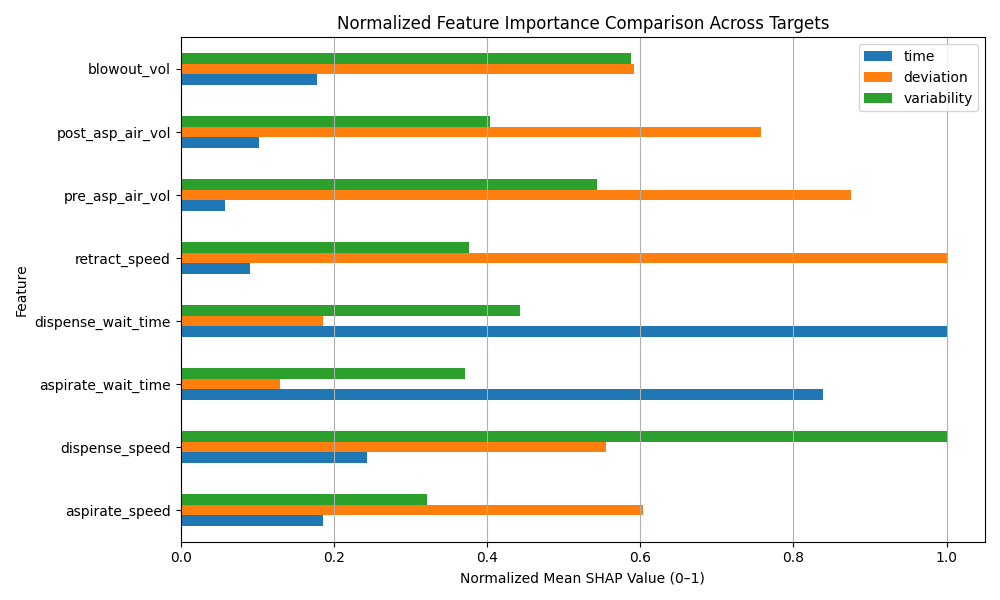
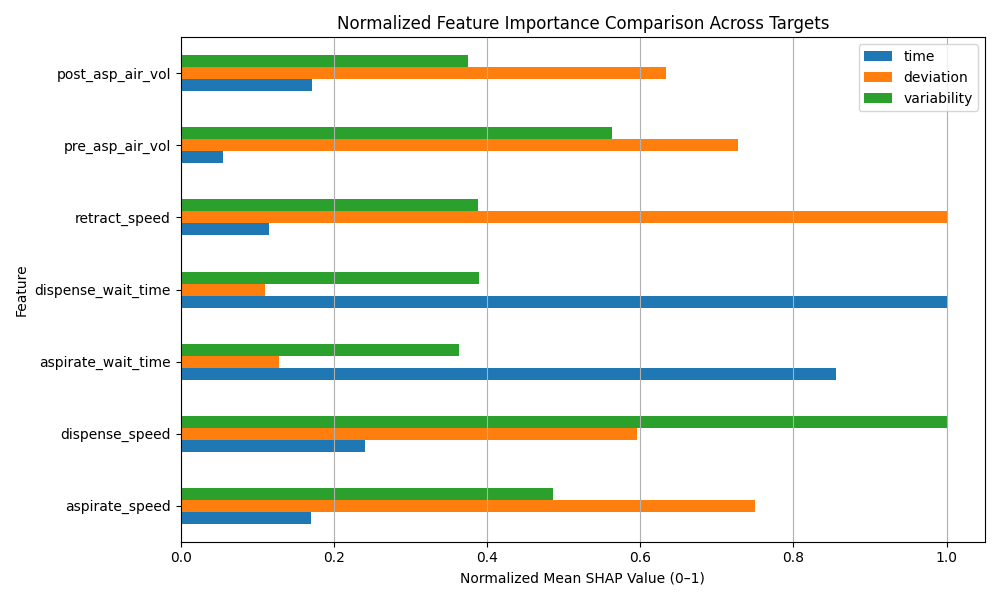
asd

Changed region(s): [[0.031, 0.18, 0.961, 0.78], [0.062, 0.81, 0.775, 0.9], [0.062, 0.09, 0.682, 0.15]]

diff --git a/analysis/calibration_analyzer.py b/analysis/calibration_analyzer.py
@@ -9,7 +9,7 @@ import seaborn as sns
 
 input_cols = [
     'aspirate_speed', 'dispense_speed', 'aspirate_wait_time', 'dispense_wait_time',
-    'retract_speed', 'pre_asp_air_vol', 'post_asp_air_vol', 'blowout_vol'
+    'retract_speed', 'pre_asp_air_vol', 'post_asp_air_vol', 
 ]
 
 output_targets = ['time', 'deviation', 'variability']
@@ -83,3 +83,132 @@ def plot_top_trial_histograms(best_trials, save_folder):
         plt.tight_layout()
         plt.savefig(os.path.join(save_folder, f'top_trials_histogram_{param}.png'))
         plt.clf()
+
+def plot_time_vs_deviation(results_df, save_folder):
+    """Scatter plot of Time vs. Deviation with variability > 1 marked and volumes color-coded."""
+    plt.figure(figsize=(10, 6))
+    
+    for vol in sorted(results_df['volume'].unique()):
+        df_sub = results_df[results_df['volume'] == vol]
+        label = f"{vol} mL"
+
+        # Normal points
+        plt.scatter(
+            df_sub["time"],
+            df_sub["deviation"],
+            label=label,
+            alpha=0.7,
+            edgecolors="k"
+        )
+
+        # X markers for variability > 1.0
+        high_var = df_sub[df_sub["variability"] > 1.0]
+        plt.scatter(
+            high_var["time"],
+            high_var["deviation"],
+            marker="x",
+            color="black",
+            s=100,
+            label=None
+        )
+
+    plt.xlabel("Time (seconds)")
+    plt.ylabel("Deviation From Target (%)")
+    plt.title("Time vs Deviation with High-Variability Markers")
+    plt.legend(title="Volume")
+    plt.grid(True)
+    plt.tight_layout()
+
+    save_path = os.path.join(save_folder, "time_vs_deviation_scatter.png")
+    plt.savefig(save_path)
+    plt.clf()
+    print("Saved time vs deviation plot to:", save_path)
+
+def plot_boxplots(df, save_folder):
+    for target in ['deviation', 'variability', 'time']:
+        if target in df.columns:
+            plt.figure(figsize=(10, 6))
+            sns.boxplot(data=df, x='volume', y=target)
+            plt.title(f'{target.capitalize()} by Volume')
+            plt.tight_layout()
+            plt.savefig(os.path.join(save_folder, f'boxplot_{target}_by_volume.png'), dpi=300)
+            plt.close()
+
+def plot_pairplot(df, save_folder):
+    key_params = ['deviation', 'time', 'variability', 'aspirate_speed', 'dispense_speed']
+    available = [p for p in key_params if p in df.columns]
+    if len(available) >= 3:
+        sns.pairplot(df[available])
+        plt.savefig(os.path.join(save_folder, 'parameter_pairplot.png'), dpi=300)
+        plt.close()
+
+def plot_learning_curves(df, save_folder):
+    df = df.copy()
+    df['trial_index'] = pd.to_numeric(df['trial_index'], errors='coerce')
+    df = df.dropna(subset=['trial_index']).sort_values(['volume', 'trial_index'])
+
+    metrics = ['deviation', 'time', 'variability']
+    for metric in metrics:
+        if metric not in df.columns:
+            continue
+        volumes = sorted(df['volume'].unique())
+        plt.figure(figsize=(14, 5 * len(volumes)))
+        for i, vol in enumerate(volumes):
+            ax = plt.subplot(len(volumes), 1, i+1)
+            vol_df = df[df['volume'] == vol].sort_values('trial_index')
+            ax.scatter(vol_df['trial_index'], vol_df[metric], alpha=0.6, s=40)
+            if len(vol_df) >= 3:
+                ma = vol_df[metric].rolling(window=3, center=True).mean()
+                ax.plot(vol_df['trial_index'], ma, label='Moving Average', color='orange')
+                z = np.polyfit(vol_df['trial_index'], vol_df[metric], 1)
+                ax.plot(vol_df['trial_index'], np.poly1d(z)(vol_df['trial_index']), 'r--', label='Trend')
+            ax.set_title(f'{metric.capitalize()} Learning Curve - {vol} mL')
+            ax.set_xlabel('Trial Index')
+            ax.set_ylabel(metric.capitalize())
+            ax.legend()
+            ax.grid(True)
+        plt.tight_layout()
+        plt.savefig(os.path.join(save_folder, f'learning_curves_{metric}.png'), dpi=300)
+        plt.close()
+
+def plot_improvement_summary(df, save_folder):
+    metrics = ['deviation', 'time', 'variability']
+    summary = []
+    for vol in sorted(df['volume'].unique()):
+        sub = df[df['volume'] == vol].sort_values('trial_index')
+        n = len(sub)
+        if n < 4:
+            continue
+        for metric in metrics:
+            if metric not in sub.columns:
+                continue
+            first = sub.iloc[:n//2][metric].mean()
+            second = sub.iloc[n//2:][metric].mean()
+            if first != 0:
+                improvement = (first - second) / first * 100
+            else:
+                improvement = 0
+            summary.append({
+                'volume': vol,
+                'metric': metric,
+                'first_half': first,
+                'second_half': second,
+                'improvement_pct': improvement
+            })
+    if summary:
+        df_summary = pd.DataFrame(summary)
+        df_summary.to_csv(os.path.join(save_folder, 'improvement_summary.csv'), index=False)
+
+        plt.figure(figsize=(12, 8))
+        for i, metric in enumerate(metrics):
+            plt.subplot(3, 1, i+1)
+            sub = df_summary[df_summary['metric'] == metric]
+            plt.bar(sub['volume'].astype(str), sub['improvement_pct'], color='teal')
+            plt.title(f'{metric.capitalize()} Improvement (% reduction)')
+            plt.ylabel('Improvement (%)')
+            plt.xlabel('Volume (mL)')
+            plt.grid(True)
+        plt.tight_layout()
+        plt.savefig(os.path.join(save_folder, 'improvement_summary.png'), dpi=300)
+        plt.close()
+

diff --git a/workflows/calibration_sdl.py b/workflows/calibration_sdl.py
@@ -1,8 +1,6 @@
 # calibration_sdl.py
 
 import sys
-
-from torch import fill
 sys.path.append("../utoronto_demo")
 import numpy as np
 import pandas as pd
@@ -11,8 +9,6 @@ from master_usdl_coordinator import Lash_E
 import time
 from ax.core.observation import ObservationFeatures
 import recommenders.pipeting_optimizer_honegumi as recommender  # adjust if needed
-import matplotlib.pyplot as plt
-import seaborn as sns
 import os
 import analysis.calibration_analyzer as analyzer  # adjust if needed
 
@@ -23,6 +19,7 @@ BAYES_CYCLES_PER_VOLUME = 120
 SIMULATE = False
 REPLICATES = 3
 VOLUMES = [0.01,0.02,0.05,0.1]
+LIQUID = "water" 
 #VOLUMES = [0.01,0.02,0.05]
 DENSITY_LIQUID = 0.997  # g/mL
 EXPECTED_MASSES = [v * DENSITY_LIQUID for v in VOLUMES]
@@ -95,7 +92,7 @@ def pipet_and_measure(volume, params, expected_mass, expected_time):
     dispense_kwargs = {
         "dispense_speed": params["dispense_speed"],
         "wait_time": params["dispense_wait_time"],
-        "blowout_vol": params["blowout_vol"],
+ #       "blowout_vol": params["blowout_vol"],
         "measure_weight": True,
         "air_vol": air_vol,
     }
@@ -116,6 +113,7 @@ def pipet_and_measure(volume, params, expected_mass, expected_time):
             "mass": mass,
             "start_time": replicate_start,
             "end_time": replicate_end,
+            "liquid": LIQUID,
             **params,
         }
         raw_measurements.append(raw_entry)
@@ -133,7 +131,7 @@ def pipet_and_measure(volume, params, expected_mass, expected_time):
         deviation = np.mean(percent_errors)
 
         # Time score: relative percent difference from expected time
-        time_score = ((end - start) / REPLICATES - expected_time) / expected_time * 100
+        time_score = ((end - start) / REPLICATES)
 
         return {
             "deviation": deviation,
@@ -169,6 +167,8 @@ for i,volume in enumerate(VOLUMES):
         result["volume"] = volume
         result["trial_index"] = trial_index
         result["strategy"] = "SOBOL"
+        result["liquid"] = LIQUID
+        result["time_reported"] = datetime.now().isoformat()
         all_results.append(result)
 
 # Continue with main optimization loop
@@ -189,6 +189,8 @@ for i, volume in enumerate(VOLUMES):
             results["volume"] = volume
             results["trial_index"] = trial_index
             results["strategy"] = "BAYESIAN"
+            results["liquid"] = LIQUID
+            results["time_reported"] = datetime.now().isoformat()
             all_results.append(results)
 
 # Save results
@@ -248,3 +250,11 @@ if not SIMULATE:
 
     # 3. Plot histograms of parameter distributions for those top trials
     analyzer.plot_top_trial_histograms(best_trials, save_dir)
+
+    # 4. Time/Deviation/Variability scatter plots
+    analyzer.plot_time_vs_deviation(results_df, save_dir)
+
+    analyzer.plot_boxplots(results_df, save_dir)
+    analyzer.plot_pairplot(results_df, save_dir)
+    analyzer.plot_learning_curves(results_df, save_dir)
+    analyzer.plot_improvement_summary(results_df, save_dir)

diff --git a/analysis/calibration_analyzer_main.py b/analysis/calibration_analyzer_main.py
@@ -1,0 +1,34 @@
+import sys
+import os
+import pandas as pd
+
+# Ensure calibration_analyzer is importable
+sys.path.append("../utoronto_demo")
+import calibration_analyzer as analyzer
+
+def run_analysis_on_existing_output(folder_path):
+    folder_path = os.path.abspath(folder_path)
+    summary_file = os.path.join(folder_path, "experiment_summary.csv")
+
+    print("Looking for file at:", summary_file)
+    
+    if not os.path.exists(summary_file):
+        raise FileNotFoundError(f"experiment_summary.csv not found in {summary_file}")
+    
+    df = pd.read_csv(summary_file)
+    print(f"Loaded {len(df)} rows from {summary_file}")
+    
+    if "liquid" not in df.columns:
+        df["liquid"] = "Water"
+    
+    analyzer.run_shap_analysis(df, folder_path)
+    analyzer.plot_boxplots(df, folder_path)
+    analyzer.plot_pairplot(df, folder_path)
+    analyzer.plot_learning_curves(df, folder_path)
+    analyzer.plot_improvement_summary(df, folder_path)
+    analyzer.plot_time_vs_deviation(df, folder_path)
+    
+    print("✅ Analysis complete. Results saved to:", folder_path)
+
+if __name__ == "__main__":
+    run_analysis_on_existing_output("output/experiment_calibration_20250619_163030")

diff --git a/recommenders/pipeting_optimizer_honegumi.py b/recommenders/pipeting_optimizer_honegumi.py
@@ -59,7 +59,7 @@ def create_model(seed, num_initial_recs, volumes, model_type):
             {"name": "retract_speed", "type": "range", "bounds": [1.0, 15.0]},
             {"name": "pre_asp_air_vol", "type": "range", "bounds": [0.0, 0.1]},
             {"name": "post_asp_air_vol", "type": "range", "bounds": [0.0, 0.1]},
-            {"name": "blowout_vol", "type": "range", "bounds": [0.0, 0.1]},
+ #           {"name": "blowout_vol", "type": "range", "bounds": [0.0, 0.1]},
             {
                 "name": "volume",
                 "type": "choice",
@@ -74,7 +74,7 @@ def create_model(seed, num_initial_recs, volumes, model_type):
         objectives={
             obj1_name: ObjectiveProperties(minimize=True, threshold=30),
             obj2_name: ObjectiveProperties(minimize=True, threshold=5),
-            obj3_name: ObjectiveProperties(minimize=True, threshold=500),
+            obj3_name: ObjectiveProperties(minimize=True, threshold=90),
         },
         parameter_constraints=[
             f"pre_asp_air_vol + post_asp_air_vol <= {1.0-max(volumes)}"
